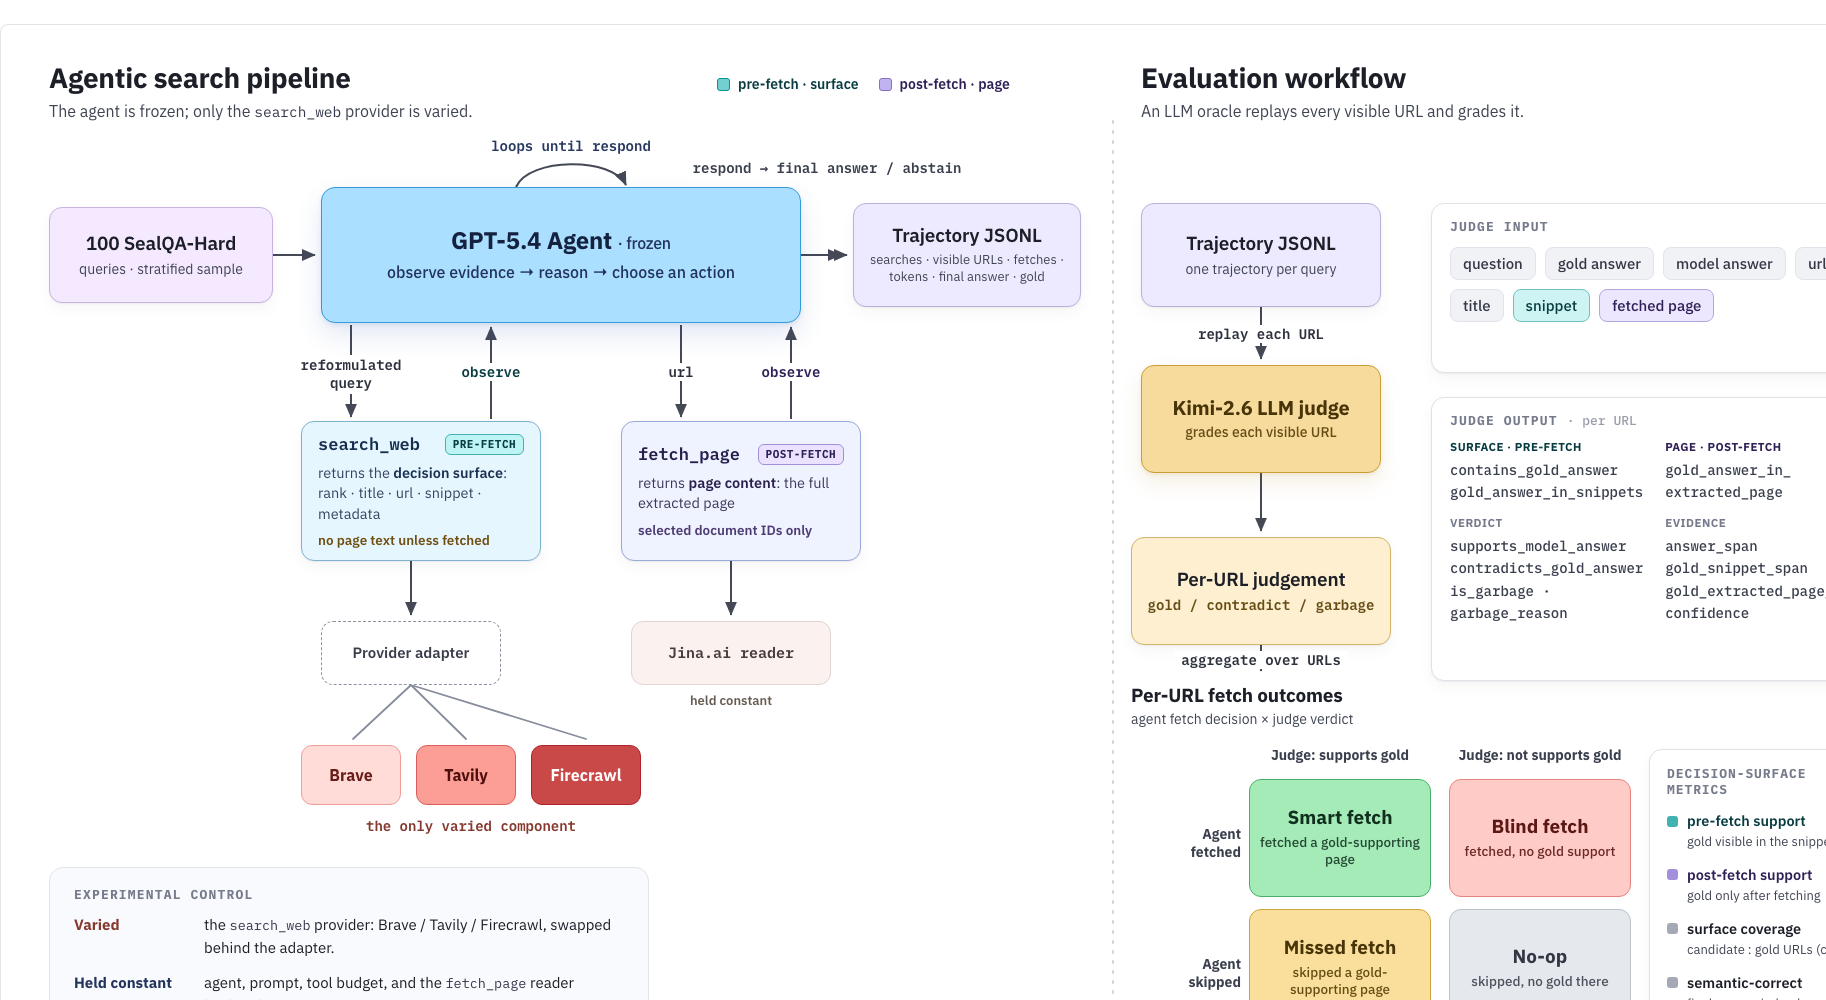
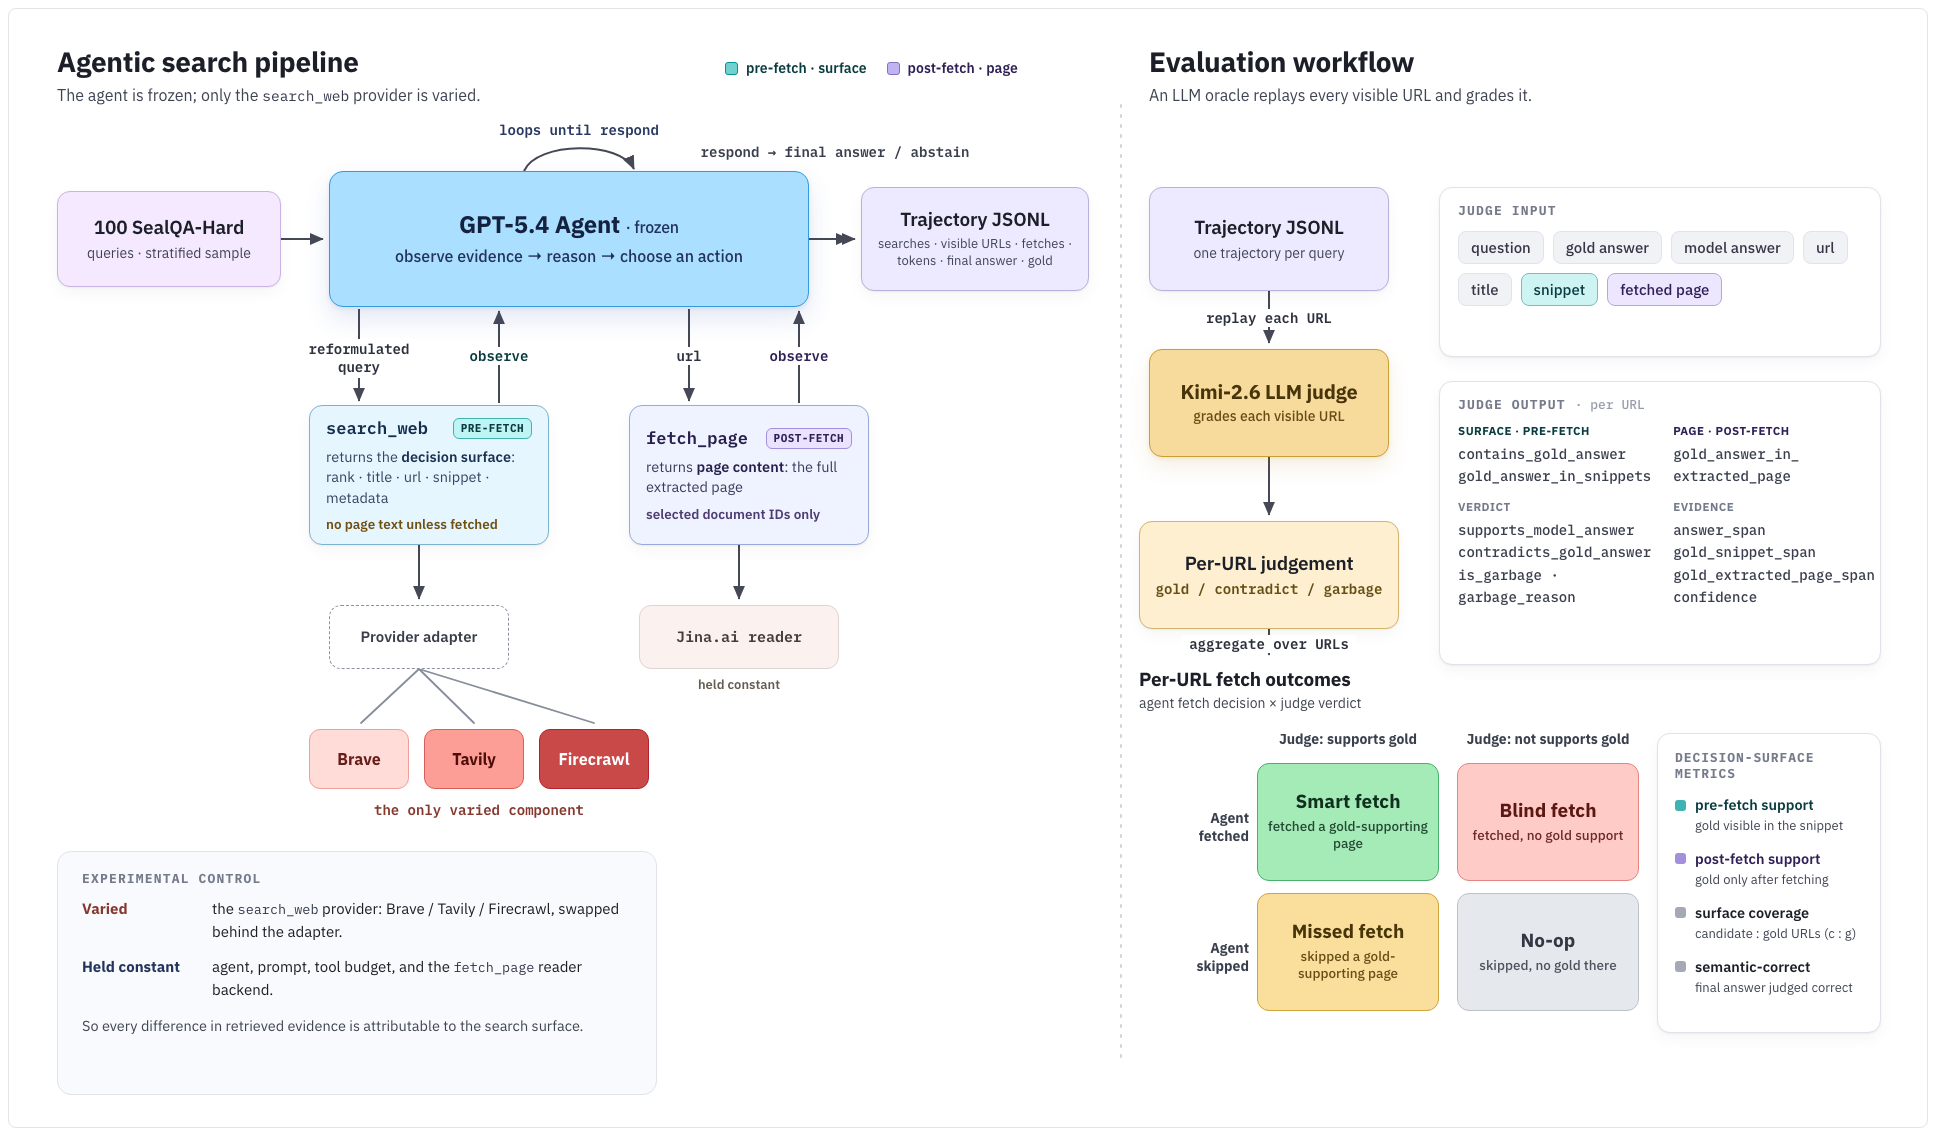
LKG add snippet length robustness

diff --git a/paper/paper_shared.tex b/paper/paper_shared.tex
@@ -210,6 +210,25 @@ Table~\ref{tab:visible-support} shows that the per-URL oracle sees a larger prov
 \centering
 \scriptsize
 \setlength{\tabcolsep}{2pt}
+\begin{tabularx}{\linewidth}{@{}L{0.16\linewidth}R{0.13\linewidth}R{0.13\linewidth}R{0.15\linewidth}R{0.16\linewidth}R{0.17\linewidth}@{}}
+\toprule
+\textbf{Provider} & \textbf{Med. surface tok./q} & \textbf{Mean surface tok./q} & \textbf{Gold-support rows} & \textbf{Gold rows/1K tok.} & \textbf{Support q/1K tok.} \\
+\midrule
+Brave & 7,810 & 8,968.1 & 101 & 0.113 & 0.033 \\
+Tavily & 5,911 & 5,928.4 & 34 & 0.057 & 0.027 \\
+Firecrawl & 2,704 & 3,028.1 & 30 & 0.099 & 0.053 \\
+\bottomrule
+\end{tabularx}
+\caption{Snippet-surface length normalization. Token counts use the rendered pre-fetch \searchWeb{} observations sent to the model: query wrapper, document IDs, ranks, URLs, titles, domains, snippets, and provider-native extra snippets, excluding fetched page text and raw provider payloads. Duplicate search observations are counted because they entered the model context.}
+\label{tab:snippet-volume}
+\end{table}
+
+Because Brave exposes more provider-native snippet text, Table~\ref{tab:snippet-volume} normalizes pre-fetch support by the rendered snippet-surface token volume sent to the model. Brave's row-normalized advantage over Tavily persists (0.113 vs. 0.057 gold-supporting rows per 1K tokens), but the contrast with Firecrawl shrinks (0.113 vs. 0.099), and Firecrawl is higher under query-normalized support (0.053 vs. 0.033 support queries per 1K tokens). We therefore interpret Brave's pre-fetch support advantage as partly surface-volume-driven rather than purely higher per-token evidence density.
+
+\begin{table}[!t]
+\centering
+\scriptsize
+\setlength{\tabcolsep}{2pt}
 \begin{tabularx}{\linewidth}{@{}L{0.23\linewidth}L{0.18\linewidth}L{0.12\linewidth}L{0.20\linewidth}Z@{}}
 \toprule
 \textbf{Claim} & \textbf{Contrast} & \textbf{Diff.} & \textbf{95\% interval} & \textbf{Takeaway} \\
@@ -305,7 +324,7 @@ The decision partition is induced by one GPT-5.4 agent and one Kimi-K2.6 judge. 
 Pre-fetch support is measured only over URLs actually returned to the agent, and post-fetch support is a lower bound because unfetched URLs are not page-judged. This prevents us from claiming full provider recall.
 
 \paragraph{Snippet-surface asymmetry.}
-Brave returns more provider-native snippet text under our configuration. We aggregate it into the snippet surface to avoid presenting it as special treatment, but it remains a real product-surface difference and a plausible driver of Brave's pre-fetch support ceiling.
+Brave returns more provider-native snippet text under our configuration. We aggregate it into the snippet surface to avoid presenting it as special treatment, but it remains a real product-surface difference and a plausible driver of Brave's pre-fetch support ceiling. The length-normalized check in Table~\ref{tab:snippet-volume} shows that this asymmetry explains part, but not all, of the observed pre-fetch support pattern.
 
 \paragraph{Observational policy analysis.}
 The agent's actions are observed, not randomized. We do not intervene on ranks, snippets, or fetch decisions. Causal replay is future work.
@@ -320,7 +339,7 @@ Evaluating search APIs for tool-using agents requires looking beyond answer accu
 This work evaluates commercial search APIs and LLM agents on public web-search QA data. We do not claim that one provider is universally better. Provider names are reported because they are experimental conditions and because reproduction requires knowing which APIs produced the surfaces. The study may help reduce unnecessary page fetches and improve handling of contradictory evidence. It could also be misread as a provider leaderboard without respecting the stated limitations; we discourage that use.
 
 \section*{Reproducibility Statement}
-We release the experiment code, configuration files, prompts, query-sampling logic, trace schema, evaluation scripts, bootstrap scripts, figure-generation code, paper sources, and aggregate derived artifacts needed to inspect the reported calculations. We do not publicly redistribute raw search-provider responses, rendered trace JSONLs, judge prompts or responses containing provider snippets, or fetched page text. These artifacts contain provider search results and third-party web content subject to API terms and publisher rights, and are therefore not ours to redistribute.
+We release the experiment code, configuration files, prompts, query-sampling logic, trace schema, evaluation scripts, bootstrap scripts, figure-generation code, paper sources, and aggregate derived artifacts needed to inspect the reported calculations at \ReleaseArtifactLink. We do not publicly redistribute raw search-provider responses, rendered trace JSONLs, judge prompts or responses containing provider snippets, or fetched page text. These artifacts contain provider search results and third-party web content subject to API terms and publisher rights, and are therefore not ours to redistribute.
 
 The reported numbers were generated from the private run artifacts using the released pipeline. Researchers can reproduce the protocol by running the same fixed query sample with their own API credentials and then applying the released evaluation scripts. Because commercial search APIs are live, time-varying systems, reruns reproduce the experimental procedure rather than bit-identical provider surfaces. To support auditability without redistributing raw provider content, we release aggregate summaries, row counts, semantic-audit labels, validation summaries, and deterministic scripts that map traces and judge rows to every reported table and figure.
 

diff --git a/paper/main_preprint.tex b/paper/main_preprint.tex
@@ -6,11 +6,8 @@
   \texttt{[email redacted]} \\ \And
   Anneswa Ghosh \\
   \texttt{[email redacted]} \\}
+\newcommand{\ReleaseArtifactLink}{\url{https://github.com/selvamsriram/search-api-decision-surface}}
 \begin{document}
 \maketitle
-\begingroup
-\renewcommand{\thefootnote}{}
-\footnotetext{\textbf{Code and artifacts:} \url{https://github.com/selvamsriram/search-api-decision-surface}}
-\endgroup
 \input{paper_shared}
 \end{document}

diff --git a/paper/main_submission.tex b/paper/main_submission.tex
@@ -3,11 +3,8 @@
 \input{preamble}
 \title{Beyond Answer Accuracy: Search APIs as Decision Surfaces for Tool-Using Agents}
 \author{Anonymous ACL submission}
+\newcommand{\ReleaseArtifactLink}{\url{https://anonymous.4open.science/r/search-api-decision-surface-99AD/}}
 \begin{document}
 \maketitle
-\begingroup
-\renewcommand{\thefootnote}{}
-\footnotetext{\textbf{Code and artifacts:} \url{https://anonymous.4open.science/r/search-api-decision-surface-99AD/}}
-\endgroup
 \input{paper_shared}
 \end{document}